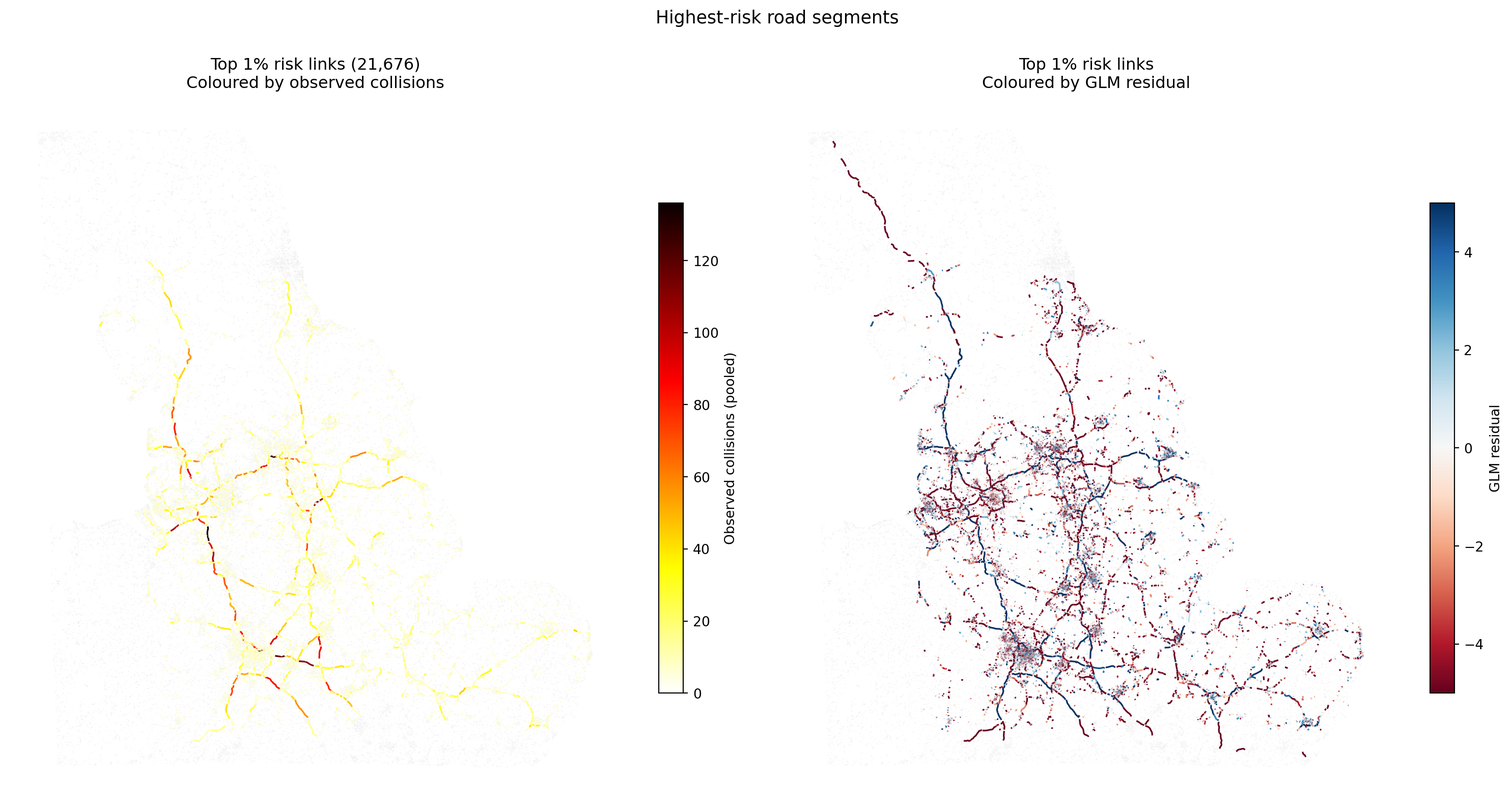
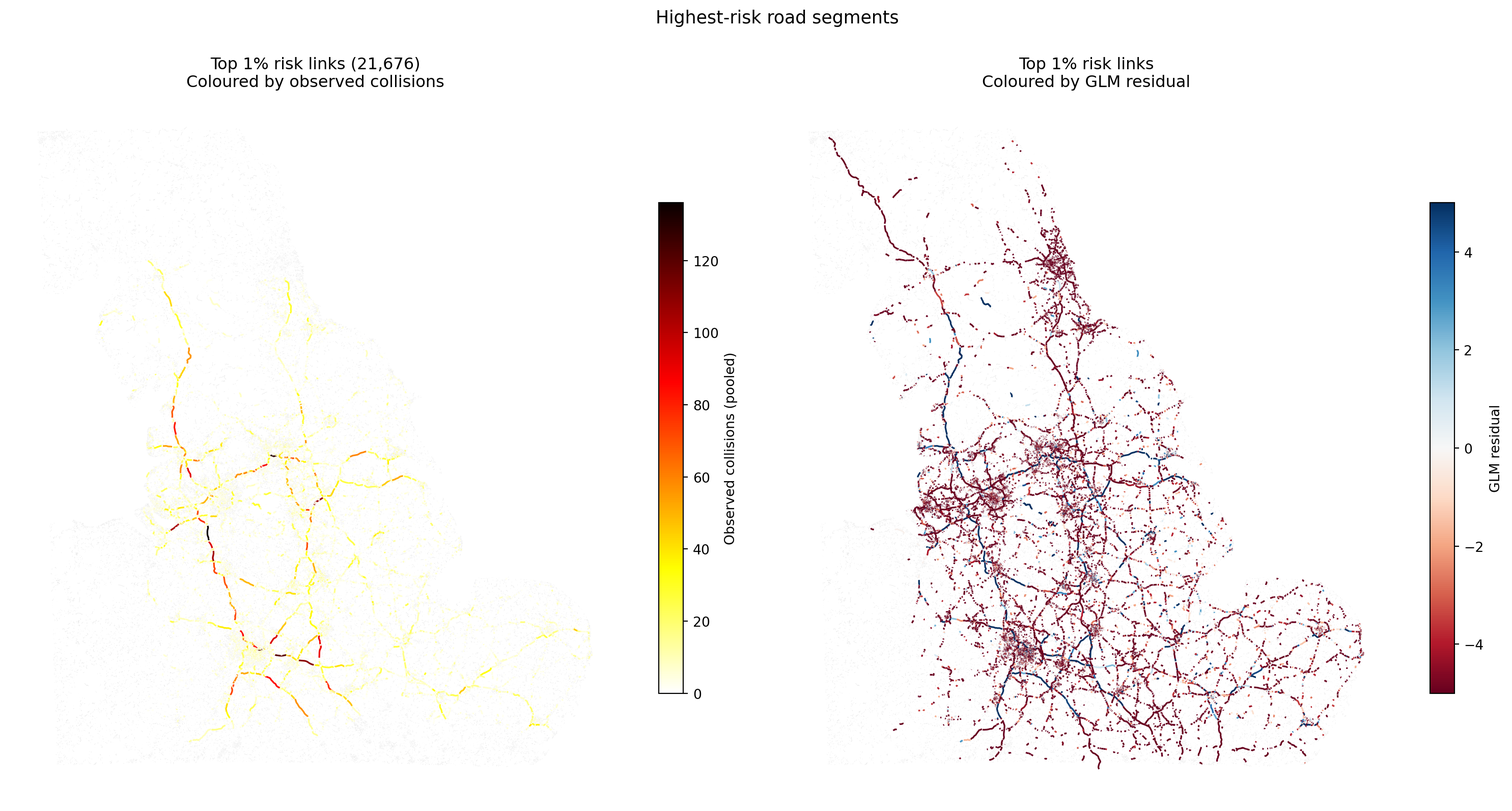
Rerun stage 2 model update site

diff --git a/quarto/_site/analysis/model-results.html b/quarto/_site/analysis/model-results.html
@@ -122,12 +122,12 @@ gtag('config', 'G-WD8T0TPHC5', { 'anonymize_ip': true});
 <meta property="og:description" content="Exposure-adjusted road collision risk modelling for Northern and Central England">
 <meta property="og:image" content="https://thomashsimm.github.io/open-road-risk/analysis/model-results_files/figure-html/cell-4-output-1.png">
 <meta property="og:site_name" content="Open Road Risk">
-<meta property="og:image:height" content="2740">
+<meta property="og:image:height" content="2913">
 <meta property="og:image:width" content="1515">
 <meta name="twitter:title" content="Stage 2: Collision Risk Model – Open Road Risk">
 <meta name="twitter:description" content="Exposure-adjusted road collision risk modelling for Northern and Central England">
 <meta name="twitter:image" content="https://thomashsimm.github.io/open-road-risk/analysis/model-results_files/figure-html/cell-4-output-1.png">
-<meta name="twitter:image-height" content="2740">
+<meta name="twitter:image-height" content="2913">
 <meta name="twitter:image-width" content="1515">
 <meta name="twitter:card" content="summary_large_image">
 </head>
@@ -386,7 +386,7 @@ gtag('config', 'G-WD8T0TPHC5', { 'anonymize_ip': true});
 <li><strong>XGBoost Poisson</strong> — captures non-linear interactions, higher predictive power</li>
 </ul>
 <p>Both models are trained on link × year data then pooled to a single stable risk score per link. The pooled output (<code>risk_scores.parquet</code>) has one row per link with no year dimension.</p>
-<div id="27a9bf6f" class="cell" data-execution_count="1">
+<div id="6c40e84e" class="cell" data-execution_count="1">
 <div class="code-copy-outer-scaffold"><div class="sourceCode cell-code" id="cb1"><pre class="sourceCode python code-with-copy"><code class="sourceCode python"><span id="cb1-1"><a href="#cb1-1" aria-hidden="true" tabindex="-1"></a><span class="im">from</span> pathlib <span class="im">import</span> Path</span>
 <span id="cb1-2"><a href="#cb1-2" aria-hidden="true" tabindex="-1"></a><span class="im">import</span> json</span>
 <span id="cb1-3"><a href="#cb1-3" aria-hidden="true" tabindex="-1"></a><span class="im">import</span> numpy <span class="im">as</span> np</span>
@@ -435,7 +435,7 @@ Total collisions : 450,992
 Total fatals     : 7,402
 
 Model performance:
-  GLM pseudo-R²  : 0.347
+  GLM pseudo-R²  : 0.351
   XGB pseudo-R²  : 0.323 (post-fix 5-seed mean)
   GLM converged  : True</code></pre>
 </div>
@@ -446,7 +446,7 @@ Model performance:
 <h2 data-number="2" class="anchored" data-anchor-id="model-performance"><span class="header-section-number">2</span> Model performance</h2>
 <section id="glm-summary" class="level3" data-number="2.1">
 <h3 data-number="2.1" class="anchored" data-anchor-id="glm-summary"><span class="header-section-number">2.1</span> GLM summary</h3>
-<div id="bd63746d" class="cell" data-execution_count="2">
+<div id="c8ff34c6" class="cell" data-execution_count="2">
 <div class="code-copy-outer-scaffold"><div class="sourceCode cell-code" id="cb3"><pre class="sourceCode python code-with-copy"><code class="sourceCode python"><span id="cb3-1"><a href="#cb3-1" aria-hidden="true" tabindex="-1"></a>g <span class="op">=</span> metrics[<span class="st">"glm"</span>]</span>
 <span id="cb3-2"><a href="#cb3-2" aria-hidden="true" tabindex="-1"></a><span class="bu">print</span>(<span class="ss">f"Training rows (downsampled for GLM) : </span><span class="sc">{</span>g[<span class="st">'n_obs'</span>]<span class="sc">:,}</span><span class="ss">"</span>)</span>
 <span id="cb3-3"><a href="#cb3-3" aria-hidden="true" tabindex="-1"></a><span class="bu">print</span>(<span class="ss">f"Full dataset rows                   : </span><span class="sc">{</span>g[<span class="st">'n_full'</span>]<span class="sc">:,}</span><span class="ss">"</span>)</span>
@@ -460,10 +460,10 @@ Model performance:
 <pre><code>Training rows (downsampled for GLM) : 4,303,805
 Full dataset rows                   : 21,675,570
 Positive link-years                 : 391,255 (1.81%)
-Pseudo-R² (1 - D/D₀)               : 0.347
-AIC                                 : 2,237,488
+Pseudo-R² (1 - D/D₀)               : 0.351
+AIC                                 : 2,229,409
 
-Features (32):
+Features (34):
   road_class_ord
   form_of_way_ord
   is_motorway
@@ -476,6 +476,7 @@ Features (32):
   log_link_length
   is_covid
   year_norm
+  hgv_proportion_imputed
   degree_mean_imputed
   betweenness_imputed
   betweenness_relative_imputed
@@ -488,6 +489,7 @@ Features (32):
   imd_crime_decile_imputed
   imd_living_indoor_decile_imputed
   mean_grade_imputed
+  hgv_proportion_missing
   pop_density_per_km2_missing
   speed_limit_mph_effective_missing
   lanes_missing
@@ -501,7 +503,7 @@ Features (32):
 </section>
 <section id="glm-coefficients" class="level3" data-number="2.2">
 <h3 data-number="2.2" class="anchored" data-anchor-id="glm-coefficients"><span class="header-section-number">2.2</span> GLM coefficients</h3>
-<div id="35db2093" class="cell" data-execution_count="3">
+<div id="378f9d72" class="cell" data-execution_count="3">
 <div class="code-copy-outer-scaffold"><div class="sourceCode cell-code" id="cb5"><pre class="sourceCode python code-with-copy"><code class="sourceCode python"><span id="cb5-1"><a href="#cb5-1" aria-hidden="true" tabindex="-1"></a>glm_path <span class="op">=</span> ROOT <span class="op">/</span> <span class="st">"data/models/collision_glm.pkl"</span></span>
 <span id="cb5-2"><a href="#cb5-2" aria-hidden="true" tabindex="-1"></a><span class="cf">if</span> glm_path.exists():</span>
 <span id="cb5-3"><a href="#cb5-3" aria-hidden="true" tabindex="-1"></a>    <span class="cf">try</span>:</span>
@@ -545,7 +547,7 @@ Features (32):
 <div class="cell-output cell-output-display">
 <div>
 <figure class="figure">
-<p><img src="model-results_files/figure-html/cell-4-output-1.png" width="758" height="1370" class="figure-img"></p>
+<p><img src="model-results_files/figure-html/cell-4-output-1.png" width="758" height="1457" class="figure-img"></p>
 </figure>
 </div>
 </div>
@@ -553,44 +555,45 @@ Features (32):
 <pre><code>
 Significant coefficients (p&lt;0.05) with incidence rate ratios:
                                      coef      IRR  pvalue
-betweenness_imputed               -4.6583    0.009     0.0
-imd_crime_decile_missing          -1.6258    0.197     0.0
-imd_living_indoor_decile_missing  -1.6258    0.197     0.0
-imd_decile_missing                -1.6258    0.197     0.0
-is_motorway                       -1.0986    0.333     0.0
-is_dual                           -0.7712    0.462     0.0
-is_slip_road                      -0.7239    0.485     0.0
-log_link_length                   -0.5718    0.565     0.0
-year_norm                         -0.5291    0.589     0.0
-is_a_road                         -0.5082    0.602     0.0
-is_unpaved_imputed                -0.4612    0.631     0.0
-speed_limit_mph_effective_missing -0.3323    0.717     0.0
-is_roundabout                     -0.1723    0.842     0.0
-is_unpaved_missing                -0.1574    0.854     0.0
-is_trunk                          -0.1258    0.882     0.0
-lanes_imputed                     -0.1105    0.895     0.0
-dist_to_major_km_imputed          -0.0829    0.920     0.0
-is_covid                          -0.0571    0.945     0.0
-road_class_ord                    -0.0378    0.963     0.0
-imd_living_indoor_decile_imputed  -0.0364    0.964     0.0
-imd_decile_imputed                -0.0343    0.966     0.0
-mean_grade_imputed                -0.0202    0.980     0.0
-imd_crime_decile_imputed          -0.0163    0.984     0.0
-speed_limit_mph_effective_imputed -0.0011    0.999     0.0
+betweenness_imputed               -4.9236    0.007     0.0
+imd_living_indoor_decile_missing  -1.5819    0.206     0.0
+imd_decile_missing                -1.5819    0.206     0.0
+imd_crime_decile_missing          -1.5819    0.206     0.0
+is_motorway                       -1.1411    0.319     0.0
+is_dual                           -0.8257    0.438     0.0
+is_slip_road                      -0.7620    0.467     0.0
+hgv_proportion_imputed            -0.7220    0.486     0.0
+log_link_length                   -0.5649    0.568     0.0
+year_norm                         -0.5309    0.588     0.0
+hgv_proportion_missing            -0.5113    0.600     0.0
+is_a_road                         -0.5105    0.600     0.0
+is_unpaved_imputed                -0.4434    0.642     0.0
+speed_limit_mph_effective_missing -0.2494    0.779     0.0
+is_roundabout                     -0.1851    0.831     0.0
+is_unpaved_missing                -0.1483    0.862     0.0
+lanes_imputed                     -0.1107    0.895     0.0
+is_trunk                          -0.1021    0.903     0.0
+is_covid                          -0.0549    0.947     0.0
+dist_to_major_km_imputed          -0.0458    0.955     0.0
+imd_decile_imputed                -0.0384    0.962     0.0
+road_class_ord                    -0.0381    0.963     0.0
+imd_living_indoor_decile_imputed  -0.0375    0.963     0.0
+mean_grade_imputed                -0.0220    0.978     0.0
+imd_crime_decile_imputed          -0.0066    0.993     0.0
 pop_density_per_km2_imputed        0.0000    1.000     0.0
-mean_grade_missing                 0.0501    1.051     0.0
-lanes_missing                      0.0955    1.100     0.0
-betweenness_relative_imputed       0.1130    1.120     0.0
-is_primary                         0.1452    1.156     0.0
-form_of_way_ord                    0.1982    1.219     0.0
-degree_mean_imputed                0.5597    1.750     0.0
-pop_density_per_km2_missing        4.8970  133.894     0.0</code></pre>
+mean_grade_missing                 0.0584    1.060     0.0
+lanes_missing                      0.0971    1.102     0.0
+betweenness_relative_imputed       0.1078    1.114     0.0
+is_primary                         0.1437    1.155     0.0
+form_of_way_ord                    0.2123    1.236     0.0
+degree_mean_imputed                0.5517    1.736     0.0
+pop_density_per_km2_missing        4.9141  136.194     0.0</code></pre>
 </div>
 </div>
 </section>
 <section id="xgboost-feature-importance" class="level3" data-number="2.3">
 <h3 data-number="2.3" class="anchored" data-anchor-id="xgboost-feature-importance"><span class="header-section-number">2.3</span> XGBoost feature importance</h3>
-<div id="db220471" class="cell" data-execution_count="4">
+<div id="5143dc98" class="cell" data-execution_count="4">
 <div class="code-copy-outer-scaffold"><div class="sourceCode cell-code" id="cb7"><pre class="sourceCode python code-with-copy"><code class="sourceCode python"><span id="cb7-1"><a href="#cb7-1" aria-hidden="true" tabindex="-1"></a>xgb_path <span class="op">=</span> ROOT <span class="op">/</span> <span class="st">"data/models/collision_xgb.json"</span></span>
 <span id="cb7-2"><a href="#cb7-2" aria-hidden="true" tabindex="-1"></a><span class="cf">if</span> xgb_path.exists():</span>
 <span id="cb7-3"><a href="#cb7-3" aria-hidden="true" tabindex="-1"></a>    <span class="cf">try</span>:</span>
@@ -625,7 +628,7 @@ pop_density_per_km2_missing        4.8970  133.894     0.0</code></pre>
 </section>
 <section id="glm-vs-xgboost-agreement" class="level3" data-number="2.4">
 <h3 data-number="2.4" class="anchored" data-anchor-id="glm-vs-xgboost-agreement"><span class="header-section-number">2.4</span> GLM vs XGBoost agreement</h3>
-<div id="2b9c9226" class="cell" data-execution_count="5">
+<div id="5255fa04" class="cell" data-execution_count="5">
 <div class="code-copy-outer-scaffold"><div class="sourceCode cell-code" id="cb8"><pre class="sourceCode python code-with-copy"><code class="sourceCode python"><span id="cb8-1"><a href="#cb8-1" aria-hidden="true" tabindex="-1"></a>fig, axes <span class="op">=</span> plt.subplots(<span class="dv">1</span>, <span class="dv">2</span>, figsize<span class="op">=</span>(<span class="dv">12</span>, <span class="dv">5</span>))</span>
 <span id="cb8-2"><a href="#cb8-2" aria-hidden="true" tabindex="-1"></a></span>
 <span id="cb8-3"><a href="#cb8-3" aria-hidden="true" tabindex="-1"></a>has_both <span class="op">=</span> risk[[<span class="st">"predicted_glm"</span>, <span class="st">"predicted_xgb"</span>]].gt(<span class="dv">0</span>).<span class="bu">all</span>(axis<span class="op">=</span><span class="dv">1</span>)</span>
@@ -666,7 +669,7 @@ pop_density_per_km2_missing        4.8970  133.894     0.0</code></pre>
 </section>
 <section id="risk-score-distribution" class="level2" data-number="3">
 <h2 data-number="3" class="anchored" data-anchor-id="risk-score-distribution"><span class="header-section-number">3</span> Risk score distribution</h2>
-<div id="e16ca507" class="cell" data-execution_count="6">
+<div id="eba9f354" class="cell" data-execution_count="6">
 <div class="code-copy-outer-scaffold"><div class="sourceCode cell-code" id="cb9"><pre class="sourceCode python code-with-copy"><code class="sourceCode python"><span id="cb9-1"><a href="#cb9-1" aria-hidden="true" tabindex="-1"></a>fig, axes <span class="op">=</span> plt.subplots(<span class="dv">1</span>, <span class="dv">2</span>, figsize<span class="op">=</span>(<span class="dv">12</span>, <span class="dv">4</span>))</span>
 <span id="cb9-2"><a href="#cb9-2" aria-hidden="true" tabindex="-1"></a></span>
 <span id="cb9-3"><a href="#cb9-3" aria-hidden="true" tabindex="-1"></a>pos <span class="op">=</span> risk[risk[<span class="st">"predicted_glm"</span>] <span class="op">&gt;</span> <span class="dv">0</span>]</span>
@@ -697,7 +700,7 @@ pop_density_per_km2_missing        4.8970  133.894     0.0</code></pre>
 </div>
 <section id="risk-percentile-by-road-class" class="level3" data-number="3.1">
 <h3 data-number="3.1" class="anchored" data-anchor-id="risk-percentile-by-road-class"><span class="header-section-number">3.1</span> Risk percentile by road class</h3>
-<div id="61a866fe" class="cell" data-execution_count="7">
+<div id="c87674c7" class="cell" data-execution_count="7">
 <div class="code-copy-outer-scaffold"><div class="sourceCode cell-code" id="cb10"><pre class="sourceCode python code-with-copy"><code class="sourceCode python"><span id="cb10-1"><a href="#cb10-1" aria-hidden="true" tabindex="-1"></a>cls_med <span class="op">=</span> (</span>
 <span id="cb10-2"><a href="#cb10-2" aria-hidden="true" tabindex="-1"></a>    risk.groupby(<span class="st">"road_classification"</span>)[<span class="st">"risk_percentile"</span>]</span>
 <span id="cb10-3"><a href="#cb10-3" aria-hidden="true" tabindex="-1"></a>    .median()</span>
@@ -736,13 +739,13 @@ pop_density_per_km2_missing        4.8970  133.894     0.0</code></pre>
 <pre><code>Risk percentile by road class:
                        mean  median    count
 road_classification                         
-Motorway               88.5    93.8     4084
-A Road                 86.2    88.0   155538
-B Road                 85.4    86.7    89286
-Classified Unnumbered  80.4    82.6   190921
-Not Classified         32.6    29.5   224878
-Unclassified           49.3    49.4  1060014
-Unknown                27.2    22.0   442836</code></pre>
+Motorway               93.8    97.6     4084
+A Road                 90.0    93.7   155538
+B Road                 83.2    87.7    89286
+Classified Unnumbered  70.5    76.3   190921
+Not Classified         29.6    25.9   224878
+Unclassified           51.9    53.4  1060014
+Unknown                25.8    20.1   442836</code></pre>
 </div>
 </div>
 <hr>
@@ -751,7 +754,7 @@ Unknown                27.2    22.0   442836</code></pre>
 <section id="residual-analysis" class="level2" data-number="4">
 <h2 data-number="4" class="anchored" data-anchor-id="residual-analysis"><span class="header-section-number">4</span> Residual analysis</h2>
 <p>Residuals (observed − predicted × n_years) identify where the model systematically under- or over-predicts. Large positive residuals flag links that had more collisions than the model expected given their traffic and road characteristics.</p>
-<div id="c958b65c" class="cell" data-execution_count="8">
+<div id="edcc2f71" class="cell" data-execution_count="8">
 <div class="code-copy-outer-scaffold"><div class="sourceCode cell-code" id="cb12"><pre class="sourceCode python code-with-copy"><code class="sourceCode python"><span id="cb12-1"><a href="#cb12-1" aria-hidden="true" tabindex="-1"></a>fig, axes <span class="op">=</span> plt.subplots(<span class="dv">1</span>, <span class="dv">2</span>, figsize<span class="op">=</span>(<span class="dv">13</span>, <span class="dv">5</span>))</span>
 <span id="cb12-2"><a href="#cb12-2" aria-hidden="true" tabindex="-1"></a></span>
 <span id="cb12-3"><a href="#cb12-3" aria-hidden="true" tabindex="-1"></a>axes[<span class="dv">0</span>].hist(risk[<span class="st">"residual_glm"</span>].clip(<span class="op">-</span><span class="dv">5</span>, <span class="dv">10</span>), bins<span class="op">=</span><span class="dv">80</span>,</span>
@@ -785,7 +788,7 @@ Unknown                27.2    22.0   442836</code></pre>
 </div>
 <section id="residuals-by-road-class" class="level3" data-number="4.1">
 <h3 data-number="4.1" class="anchored" data-anchor-id="residuals-by-road-class"><span class="header-section-number">4.1</span> Residuals by road class</h3>
-<div id="c3aeeb5e" class="cell" data-execution_count="9">
+<div id="953a8245" class="cell" data-execution_count="9">
 <div class="code-copy-outer-scaffold"><div class="sourceCode cell-code" id="cb13"><pre class="sourceCode python code-with-copy"><code class="sourceCode python"><span id="cb13-1"><a href="#cb13-1" aria-hidden="true" tabindex="-1"></a>res_by_class <span class="op">=</span> (</span>
 <span id="cb13-2"><a href="#cb13-2" aria-hidden="true" tabindex="-1"></a>    risk.groupby(<span class="st">"road_classification"</span>)[<span class="st">"residual_glm"</span>]</span>
 <span id="cb13-3"><a href="#cb13-3" aria-hidden="true" tabindex="-1"></a>    .agg([<span class="st">"mean"</span>, <span class="st">"median"</span>, <span class="st">"std"</span>, <span class="st">"count"</span>])</span>
@@ -808,18 +811,18 @@ Unknown                27.2    22.0   442836</code></pre>
 <pre><code>Residuals by road class:
                         mean  median    std    count
 road_classification                                 
-Motorway              -3.505  -1.974  8.418     4084
-A Road                -2.562  -2.197  2.745   155538
-B Road                -2.654  -1.997  2.756    89286
-Classified Unnumbered -0.421  -0.344  0.989   190921
-Not Classified        -0.251  -0.160  0.364   224878
-Unclassified          -0.397  -0.245  0.653  1060014
-Unknown               -0.236  -0.145  0.395   442836</code></pre>
+Motorway              -3.427  -1.918  8.293     4084
+A Road                -2.528  -2.134  2.755   155538
+B Road                -2.637  -1.930  2.794    89286
+Classified Unnumbered -0.409  -0.321  0.990   190921
+Not Classified        -0.247  -0.156  0.364   224878
+Unclassified          -0.399  -0.244  0.655  1060014
+Unknown               -0.234  -0.141  0.397   442836</code></pre>
 </div>
 <div class="cell-output cell-output-display">
 <div>
 <figure class="figure">
-<p><img src="model-results_files/figure-html/cell-10-output-2.png" width="853" height="374" class="figure-img"></p>
+<p><img src="model-results_files/figure-html/cell-10-output-2.png" width="845" height="374" class="figure-img"></p>
 </figure>
 </div>
 </div>
@@ -831,7 +834,7 @@ Unknown               -0.236  -0.145  0.395   442836</code></pre>
 <h2 data-number="5" class="anchored" data-anchor-id="geographic-risk-maps"><span class="header-section-number">5</span> Geographic risk maps</h2>
 <section id="full-network-risk-percentile" class="level3" data-number="5.1">
 <h3 data-number="5.1" class="anchored" data-anchor-id="full-network-risk-percentile"><span class="header-section-number">5.1</span> Full-network risk percentile</h3>
-<div id="2fc593d2" class="cell" data-execution_count="10">
+<div id="62ef9091" class="cell" data-execution_count="10">
 <div class="code-copy-outer-scaffold"><div class="sourceCode cell-code" id="cb15"><pre class="sourceCode python code-with-copy"><code class="sourceCode python"><span id="cb15-1"><a href="#cb15-1" aria-hidden="true" tabindex="-1"></a><span class="cf">if</span> HAS_GPD <span class="kw">and</span> openroads <span class="kw">is</span> <span class="kw">not</span> <span class="va">None</span>:</span>
 <span id="cb15-2"><a href="#cb15-2" aria-hidden="true" tabindex="-1"></a>    or_risk <span class="op">=</span> openroads[[<span class="st">"link_id"</span>, <span class="st">"road_classification"</span>, <span class="st">"geometry"</span>]].merge(</span>
 <span id="cb15-3"><a href="#cb15-3" aria-hidden="true" tabindex="-1"></a>        risk[[<span class="st">"link_id"</span>, <span class="st">"risk_percentile"</span>, <span class="st">"residual_glm"</span>, <span class="st">"collision_count"</span>]],</span>
@@ -874,7 +877,7 @@ Unknown               -0.236  -0.145  0.395   442836</code></pre>
 </section>
 <section id="top-1-risk-links" class="level3" data-number="5.2">
 <h3 data-number="5.2" class="anchored" data-anchor-id="top-1-risk-links"><span class="header-section-number">5.2</span> Top 1% risk links</h3>
-<div id="16f717bd" class="cell" data-execution_count="11">
+<div id="b6164c2e" class="cell" data-execution_count="11">
 <div class="code-copy-outer-scaffold"><div class="sourceCode cell-code" id="cb16"><pre class="sourceCode python code-with-copy"><code class="sourceCode python"><span id="cb16-1"><a href="#cb16-1" aria-hidden="true" tabindex="-1"></a><span class="cf">if</span> HAS_GPD <span class="kw">and</span> openroads <span class="kw">is</span> <span class="kw">not</span> <span class="va">None</span>:</span>
 <span id="cb16-2"><a href="#cb16-2" aria-hidden="true" tabindex="-1"></a>    top1 <span class="op">=</span> or_risk[or_risk[<span class="st">"risk_percentile"</span>] <span class="op">&gt;=</span> <span class="dv">99</span>].copy()</span>
 <span id="cb16-3"><a href="#cb16-3" aria-hidden="true" tabindex="-1"></a>    rng  <span class="op">=</span> np.random.default_rng(RANDOM_STATE)</span>
@@ -905,7 +908,7 @@ Unknown               -0.236  -0.145  0.395   442836</code></pre>
 <div class="cell-output cell-output-display">
 <div>
 <figure class="figure">
-<p><img src="model-results_files/figure-html/cell-12-output-1.png" width="1485" height="796" class="figure-img"></p>
+<p><img src="model-results_files/figure-html/cell-12-output-1.png" width="1485" height="797" class="figure-img"></p>
 </figure>
 </div>
 </div>
@@ -913,20 +916,19 @@ Unknown               -0.236  -0.145  0.395   442836</code></pre>
 <pre><code>
 Top 1% risk links by road class (21,676 total):
 road_classification
-A Road                   12998
-B Road                    2655
-Classified Unnumbered     2513
-Unclassified              2213
-Motorway                  1025
-Unknown                    243
-Not Classified              29</code></pre>
+A Road                   16030
+B Road                    2240
+Classified Unnumbered     1768
+Motorway                  1410
+Unclassified               217
+Unknown                     11</code></pre>
 </div>
 </div>
 </section>
 <section id="excess-risk-map-residual-2" class="level3" data-number="5.3">
 <h3 data-number="5.3" class="anchored" data-anchor-id="excess-risk-map-residual-2"><span class="header-section-number">5.3</span> Excess-risk map (residual &gt; 2)</h3>
 <p>Links where observed collisions substantially exceeded the model’s prediction given traffic volume and road type — potential candidates for engineering review.</p>
-<div id="414743dd" class="cell" data-execution_count="12">
+<div id="ed3c3dd1" class="cell" data-execution_count="12">
 <div class="code-copy-outer-scaffold"><div class="sourceCode cell-code" id="cb18"><pre class="sourceCode python code-with-copy"><code class="sourceCode python"><span id="cb18-1"><a href="#cb18-1" aria-hidden="true" tabindex="-1"></a><span class="cf">if</span> HAS_GPD <span class="kw">and</span> openroads <span class="kw">is</span> <span class="kw">not</span> <span class="va">None</span>:</span>
 <span id="cb18-2"><a href="#cb18-2" aria-hidden="true" tabindex="-1"></a>    excess <span class="op">=</span> or_risk[or_risk[<span class="st">"residual_glm"</span>] <span class="op">&gt;</span> <span class="dv">2</span>].copy()</span>
 <span id="cb18-3"><a href="#cb18-3" aria-hidden="true" tabindex="-1"></a></span>
@@ -955,7 +957,7 @@ Not Classified              29</code></pre>
 </section>
 <section id="summary" class="level2" data-number="6">
 <h2 data-number="6" class="anchored" data-anchor-id="summary"><span class="header-section-number">6</span> Summary</h2>
-<div id="3cb47ada" class="cell" data-execution_count="13">
+<div id="5a8f2121" class="cell" data-execution_count="13">
 <div class="code-copy-outer-scaffold"><div class="sourceCode cell-code" id="cb19"><pre class="sourceCode python code-with-copy"><code class="sourceCode python"><span id="cb19-1"><a href="#cb19-1" aria-hidden="true" tabindex="-1"></a><span class="bu">print</span>(<span class="st">"=== Stage 2 collision model summary ===</span><span class="ch">\n</span><span class="st">"</span>)</span>
 <span id="cb19-2"><a href="#cb19-2" aria-hidden="true" tabindex="-1"></a><span class="bu">print</span>(<span class="ss">f"Links scored          : </span><span class="sc">{</span><span class="bu">len</span>(risk)<span class="sc">:,}</span><span class="ss">"</span>)</span>
 <span id="cb19-3"><a href="#cb19-3" aria-hidden="true" tabindex="-1"></a><span class="bu">print</span>(<span class="ss">f"Links with collisions : </span><span class="sc">{</span>(risk[<span class="st">'collision_count'</span>] <span class="op">&gt;</span> <span class="dv">0</span>)<span class="sc">.</span><span class="bu">sum</span>()<span class="sc">:,}</span><span class="ss"> "</span></span>
@@ -976,21 +978,21 @@ Not Classified              29</code></pre>
 Links scored          : 2,167,557
 Links with collisions : 233,604 (10.8%)
 
-Poisson GLM pseudo-R² : 0.347
+Poisson GLM pseudo-R² : 0.351
 XGBoost pseudo-R²     : 0.323 (post-fix 5-seed mean)
 
 Top 1% risk links     : 21,676
-Excess-risk links (residual &gt; 2): 11,376
+Excess-risk links (residual &gt; 2): 11,245
 
 Excess-risk by road class:
 road_classification
-A Road                   3333
-Classified Unnumbered    3317
-Unclassified             3179
-B Road                    654
-Unknown                   472
-Motorway                  299
-Not Classified            122</code></pre>
+A Road                   3316
+Classified Unnumbered    3275
+Unclassified             3136
+B Road                    636
+Unknown                   465
+Motorway                  296
+Not Classified            121</code></pre>
 </div>
 </div>
 <p>Key observations:</p>
